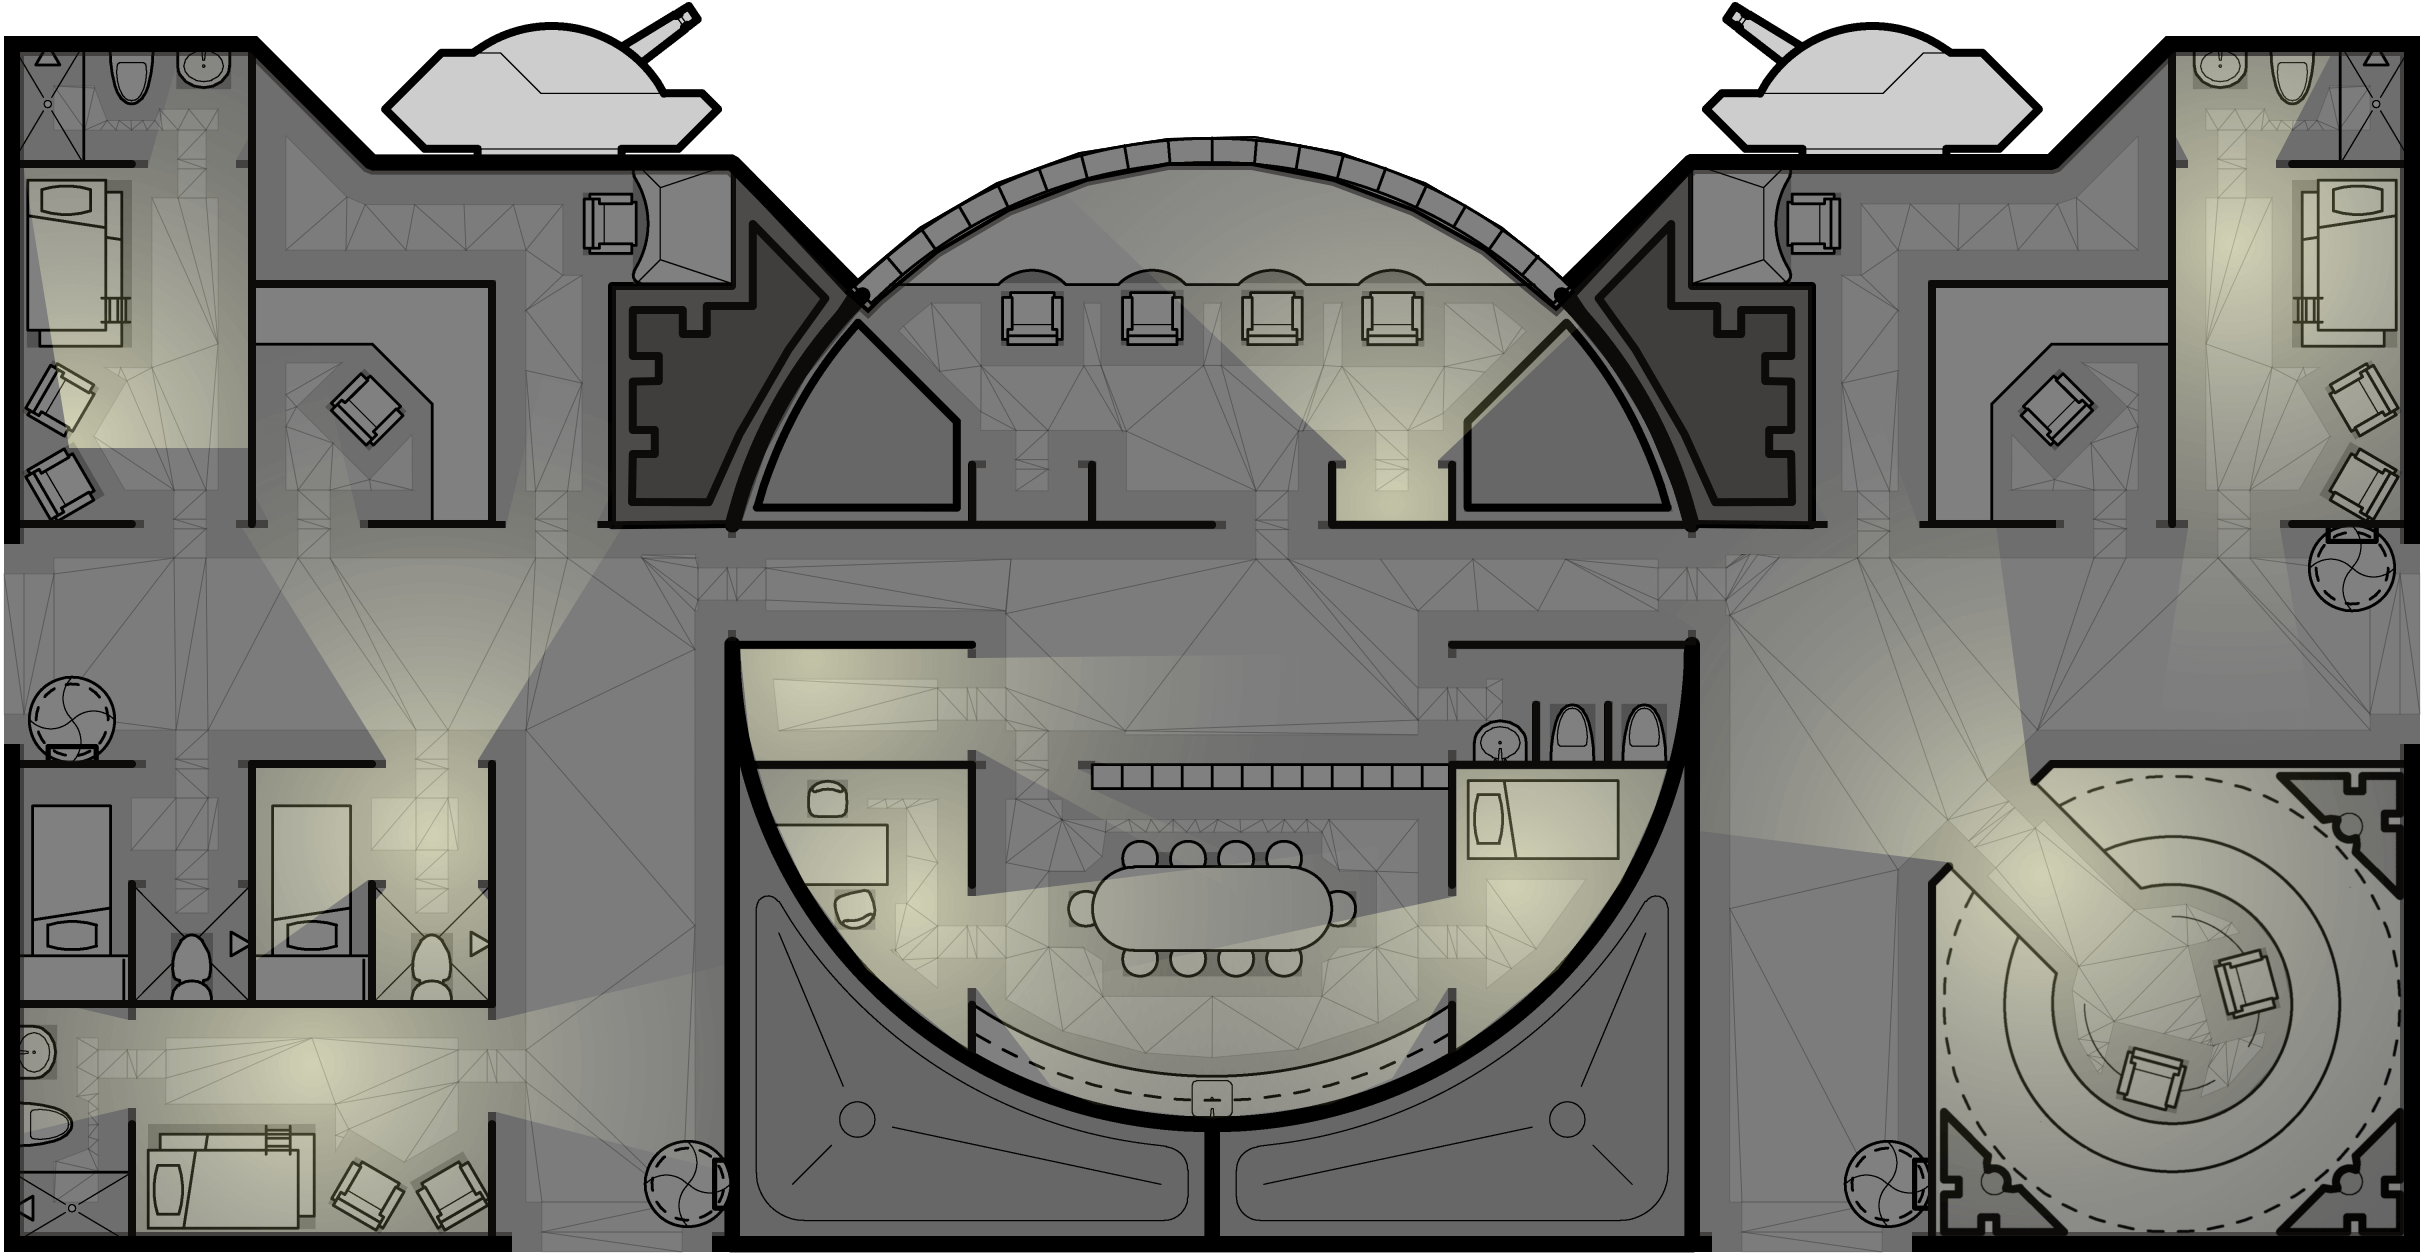
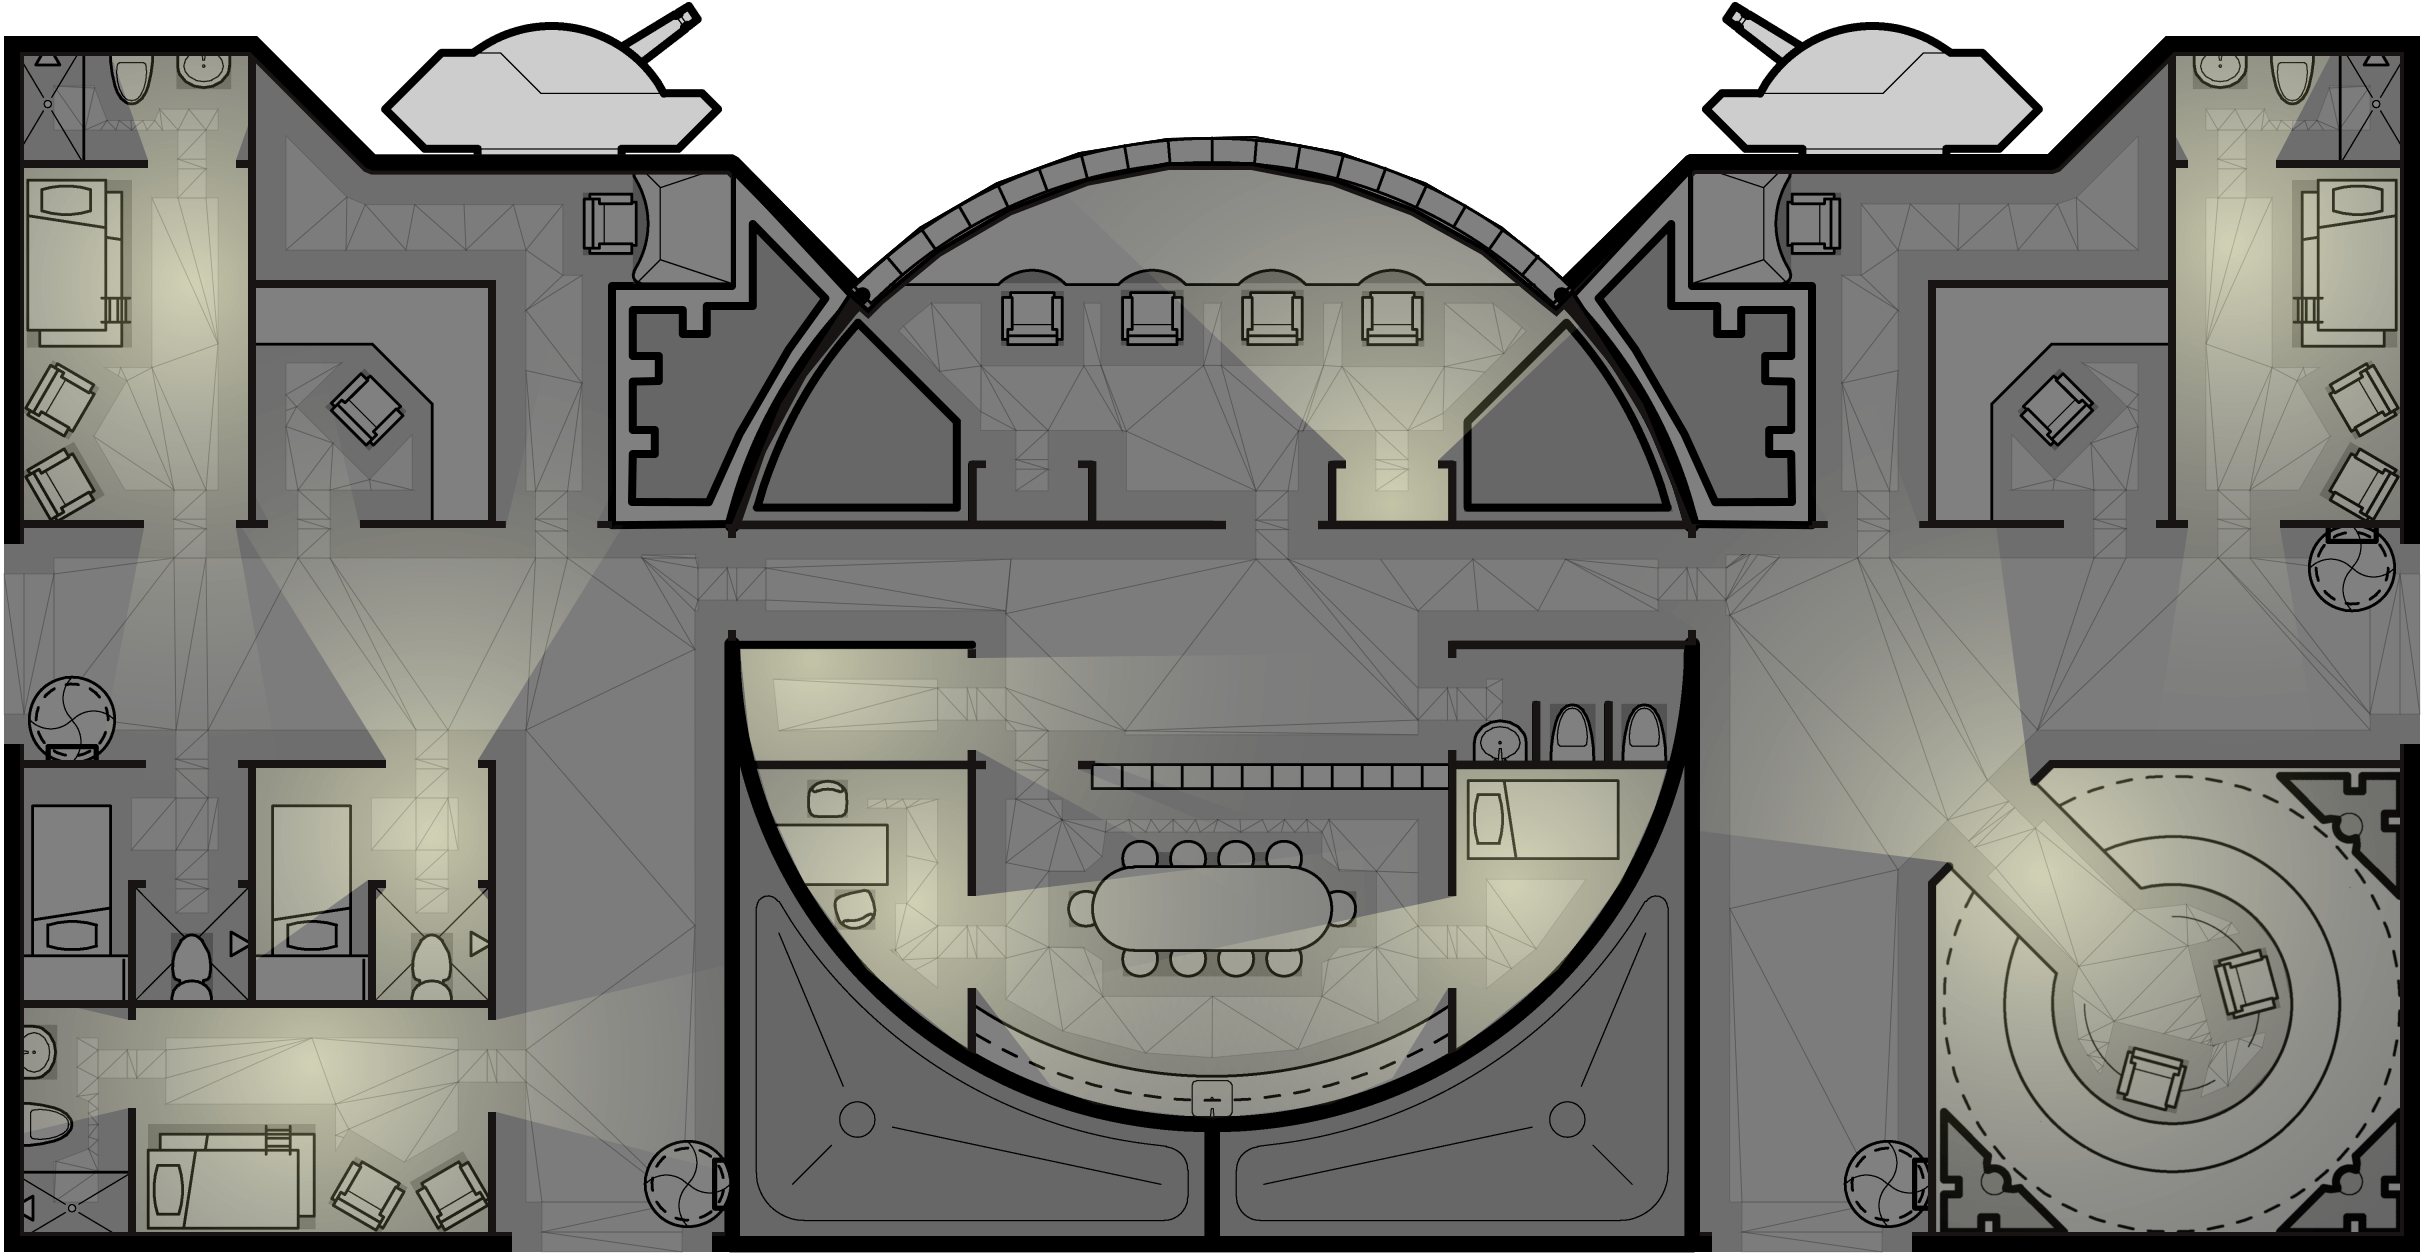
feat: bake-lighting renders layout with doors open

diff --git a/src/scripts/bake-lighting.js b/src/scripts/bake-lighting.js
@@ -1,21 +1,20 @@
 /**
  * Usage
  * > `yarn bake-lighting 301`
- * > where respective `/geomorph/{gmKey}.json` exists
  */
 /// <reference path="./deps.d.ts"/>
 
 import fs from 'fs';
 import path from 'path';
 import childProcess from 'child_process';
-import { createCanvas, loadImage } from 'canvas';
 
 import { Poly } from '../projects/geom';
 import { saveCanvasAsFile } from '../projects/service/file';
-import { getNormalizedDoorPolys, parseLayout } from '../projects/service/geomorph';
+import { getNormalizedDoorPolys } from '../projects/service/geomorph';
 import { geom } from '../projects/service/geom';
 import { fillPolygon } from '../projects/service/dom';
 import layoutDefs from '../projects/geomorph/geomorph-layouts';
+import { renderLayout } from './render-layout';
 
 const geomorphId = Number(process.argv[2]);
 const layoutDef = Object.values(layoutDefs).find(x => x.id === geomorphId);
@@ -35,30 +34,22 @@ if (!fs.existsSync(geomorphJsonPath)) {
   process.exit(1);
 }
 
-const scale = 2;
-
 main();
 
 async function main() {
 
-  /** @type {Geomorph.LayoutJson} */
-  const layoutJson = JSON.parse(fs.readFileSync(geomorphJsonPath).toString());
-  const layout = parseLayout(layoutJson);
-
-  const canvas = createCanvas(0, 0);
-  const pngRect = layout.items[0].pngRect;
-  canvas.width = pngRect.width * scale;
-  canvas.height = pngRect.height * scale;
+  // Doors are open
+  const { canvas, layout } = await renderLayout(foundLayoutDef, { open: true, debug: false });
+  // No need to scale/translate by pngRect (already done)
   const ctxt = canvas.getContext('2d');
   
-  // Draw underlying geomorph PNG
-  const geomorphPngPath = path.resolve(outputDir, `${foundLayoutDef.key}.png`);
-  const loadedPng = await loadImage(geomorphPngPath);
-  ctxt.drawImage(loadedPng, 0, 0);
+  // Darken the geomorph
+  // 🚧 thus need to darken unlit drawRects
+  const hullPolySansHoles = layout.hullPoly.map(x => x.clone().removeHoles());
+  ctxt.fillStyle = 'rgba(0, 0, 0, 0.5)';
+  fillPolygon(ctxt, hullPolySansHoles);
 
-  // Draw the lights
-  ctxt.scale(scale, scale);
-  ctxt.translate(-pngRect.x, -pngRect.y);
+  //#region draw lights
   const lightSources = layout.lightSrcs;
   /** More than one polygon can happen e.g. Geomorph 102 */
   const allRoomsAndDoors = Poly.union([
@@ -66,7 +57,6 @@ async function main() {
     ...getNormalizedDoorPolys(layout.doors), // must extrude hull doors
     ...layout.windows.map(x => x.poly),
   ]);
-  const hullPolySansHoles = layout.hullPoly.map(x => x.clone().removeHoles());
   const lights = lightSources.map(({ position, direction }, i) => {
     const exterior = allRoomsAndDoors.find(poly => poly.contains(position));
     if (exterior) {
@@ -77,12 +67,8 @@ async function main() {
     }
   });
 
-  // Darken the geomorph
-  ctxt.fillStyle = 'rgba(0, 0, 0, 0.5)';
-  fillPolygon(ctxt, hullPolySansHoles);
-
   ctxt.globalCompositeOperation = 'lighter';
-  // Draw lights as radial fill with drop off
+  // Radial fill with drop off
   lights.forEach((light, i) => {
     const { position, direction } = lightSources[i];
     const gradient = ctxt.createRadialGradient(position.x, position.y, 1, position.x, position.y, 300)
@@ -92,14 +78,14 @@ async function main() {
     ctxt.fillStyle = gradient;
     fillPolygon(ctxt, [light]);
   });
+  //#endregion
 
   // Save PNG
   await saveCanvasAsFile(canvas, outputPngPath);
   // Generate WEBP
   childProcess.execSync(`cwebp ${outputPngPath} -o ${outputPngPath.replace(/^(.*)\.png$/, '$1.webp')}`);
   // Minify PNG
-  // ⛔ can be worse than tinypng (467kb vs 534kb)
+  // ⛔ seen worse than tinypng (467kb vs 534kb)
   childProcess.execSync(`pngquant -f ${outputPngPath} && mv ${outputPngPath.replace(/\.png$/, '-fs8.png')} ${outputPngPath}`);
 
 }
-

diff --git a/src/scripts/render-layout.js b/src/scripts/render-layout.js
@@ -1,7 +1,7 @@
 /**
  * - Usage:
  *   - `yarn render-layout 301`
- *   - `yarn render-layout 301 --doors`
+ *   - `yarn render-layout 301 --open`
  *   - `yarn render-layout 301 --debug`
  *   - `yarn render-layout 101 --debug --scale=4`
  *   - `yarn render-layout 301 --scale=1 --suffix=x1`
@@ -33,12 +33,12 @@ const foundLayoutDef = layoutDef; // else ts error in main
 
 const opts = getOpts(process.argv);
 const [
-  doors,
+  open,
   debug,
   scale,
   suffix,
   defaultScale,
-] = [opts.doors, opts.debug, opts.scale, opts.suffix, 2];
+] = [opts.open, opts.debug, opts.scale, opts.suffix, 2];
 const staticAssetsDir = path.resolve(__dirname, '../../static/assets');
 const outputDir = path.resolve(staticAssetsDir, 'geomorph');
 const outputPngPath =  path.resolve(outputDir, `${layoutDef.key}${
@@ -50,7 +50,7 @@ main();
 async function main() {
   try {
     // Do the rendering
-    const { layout, canvas } = await renderLayout(foundLayoutDef);
+    const { layout, canvas } = await renderLayout(foundLayoutDef, {open: !!open, debug: !!debug, scale});
     // Write JSON (also done in svg-meta)
     const geomorphJsonPath = path.resolve(outputDir, `${foundLayoutDef.key}.json`);
     writeAsJson(serializeLayout(layout), geomorphJsonPath);
@@ -69,8 +69,9 @@ async function main() {
 /**
  * Compute and render layout, given layout definition.
  * @param {Geomorph.LayoutDef} def
+ * @param {{ open: boolean; debug: boolean; scale?: number}} opts
  */
-async function renderLayout(def) {
+export async function renderLayout(def, { open, debug, scale }) {
 
   const canvas = createCanvas(0, 0);
   const symbolLookup = deserializeSvgJson(/** @type {*} */ (svgJson));
@@ -85,11 +86,11 @@ async function renderLayout(def) {
     {
       scale: scale || defaultScale,
       obsBounds: true, wallBounds: true, navTris: true,
-      ...doors && {
-        doors: true,
+      doors: true,
+      ...open && {
+        doors: false,
       },
       ...debug && {
-        doors: true,
         labels: true,
       },
     },

diff --git a/docs/TODO.md b/docs/TODO.md
@@ -3,16 +3,23 @@
 ## In progress
 
 - 🚧 dynamic lighting
-  - consider removing unseen door canvas
-    - ✅ avoid partially dark walls
-    - 🚧 try including doors in geomorph 301 png
-      - ✅ show all doors in curr/adj room
-      - ❌ show all doors in related room
-      - ✅ fix half-closed-door-issue
-      - ✅ hull doors should be cut out of adjacent geomorphs
-      - try drawRect "unlit rects including door"
-    - redo lit geomorph 301 where lights only intersect in same room
+  - ✅ consider removing unseen door canvas
+  - ✅ avoid partially dark walls
+  - ✅ try including doors in geomorph 301 png
+    - ✅ show all doors in curr/adj room
+    - ❌ show all doors in related room
+      > instead show all doors in curr/adj + 1-step relDoorId
+      > which only changes when curr room changes
+    - ✅ fix half-closed-door-issue
+    - ✅ hull doors should be cut out of adjacent geomorphs
+      > otherwise they cover up the hull doors
+  - 🚧 try drawRect "unlit rects including door"
+    - ✅ bake-lighting shades `rgba(0, 0, 0, 0.5)` so unlit rects will need thi
+    - ✅ bake-lighting does renderLayout with doors open before shade/lights
+    - move canvas into Geomorphs
     - ...
+  - redo lit geomorph 301 where lights only intersect in same room
+  - ...
 
 - 🚧 Synfig https://www.synfig.org/
   - ✅ Download and Install
